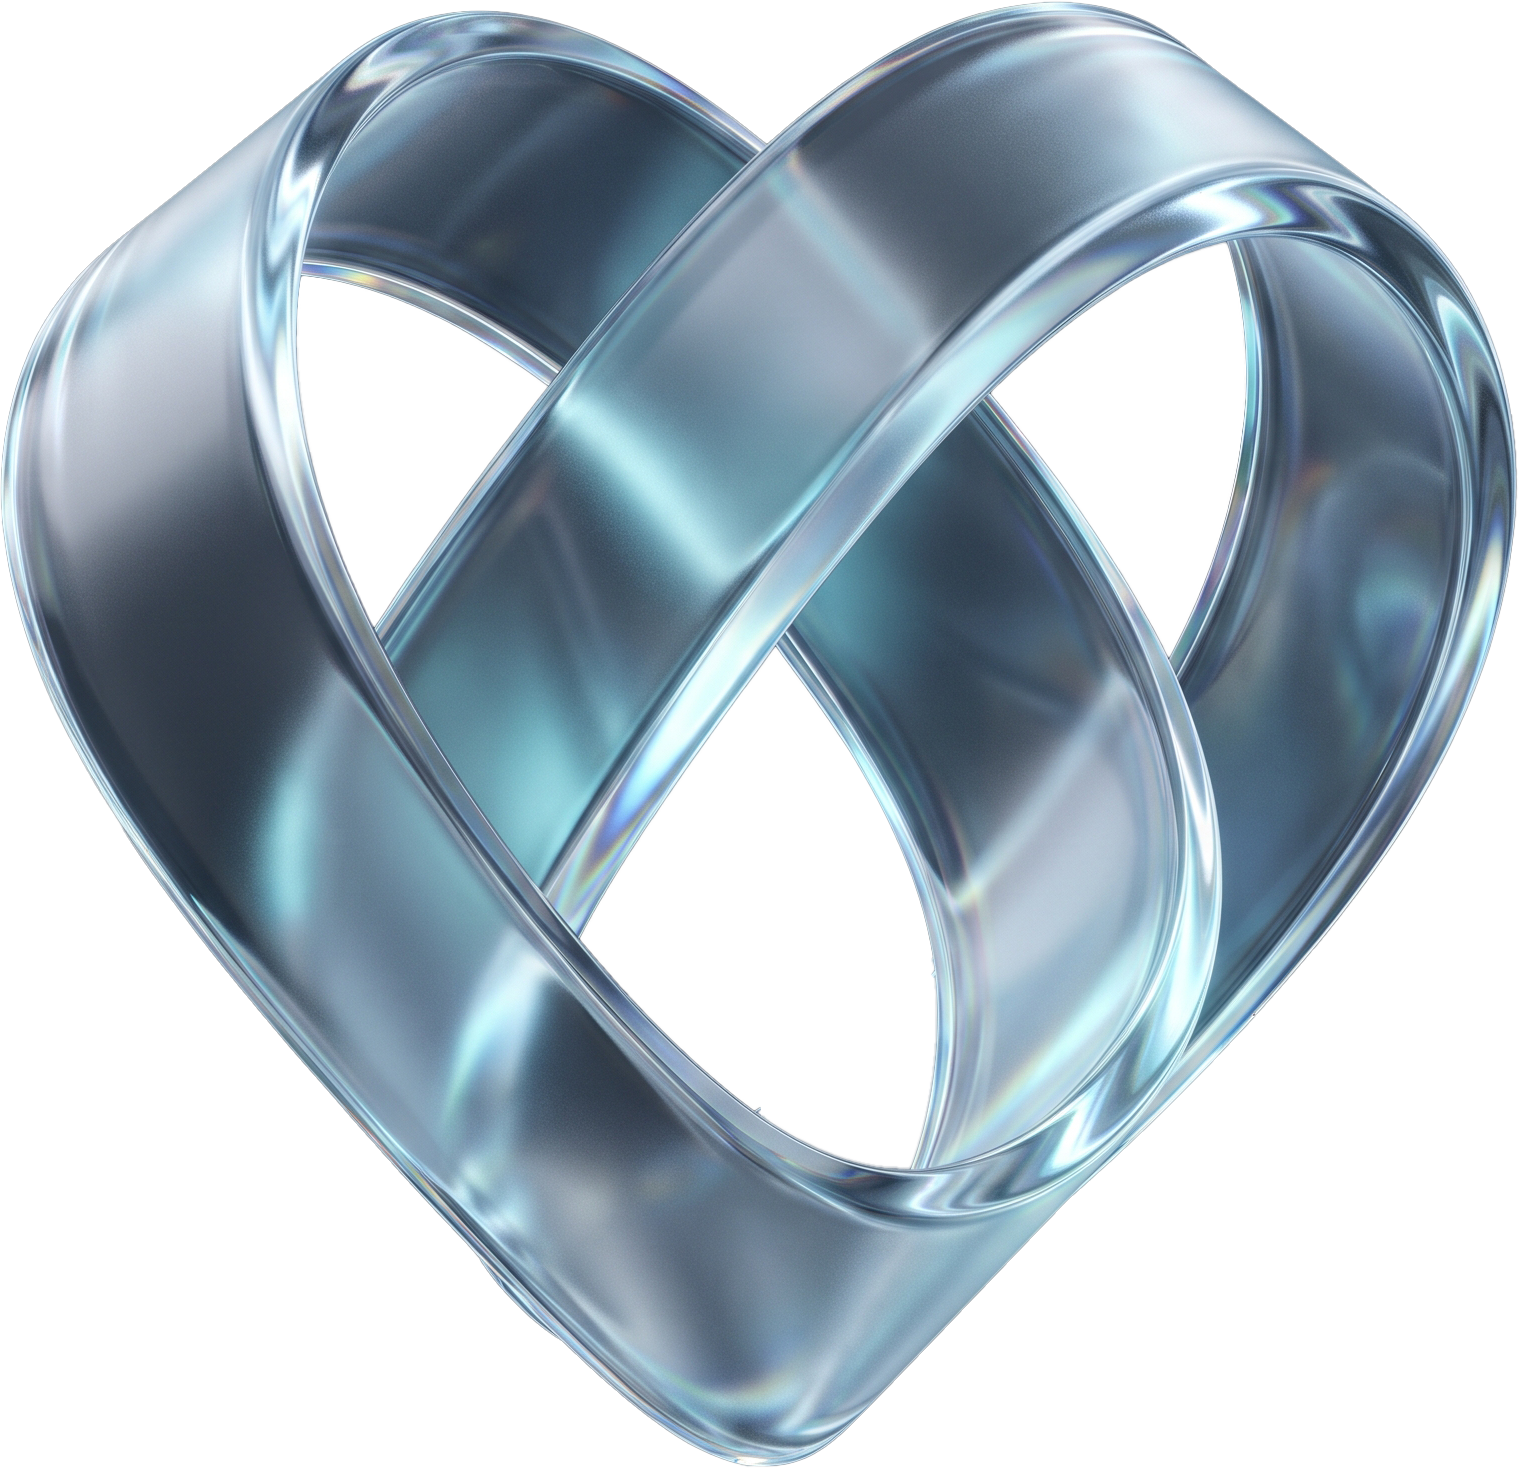
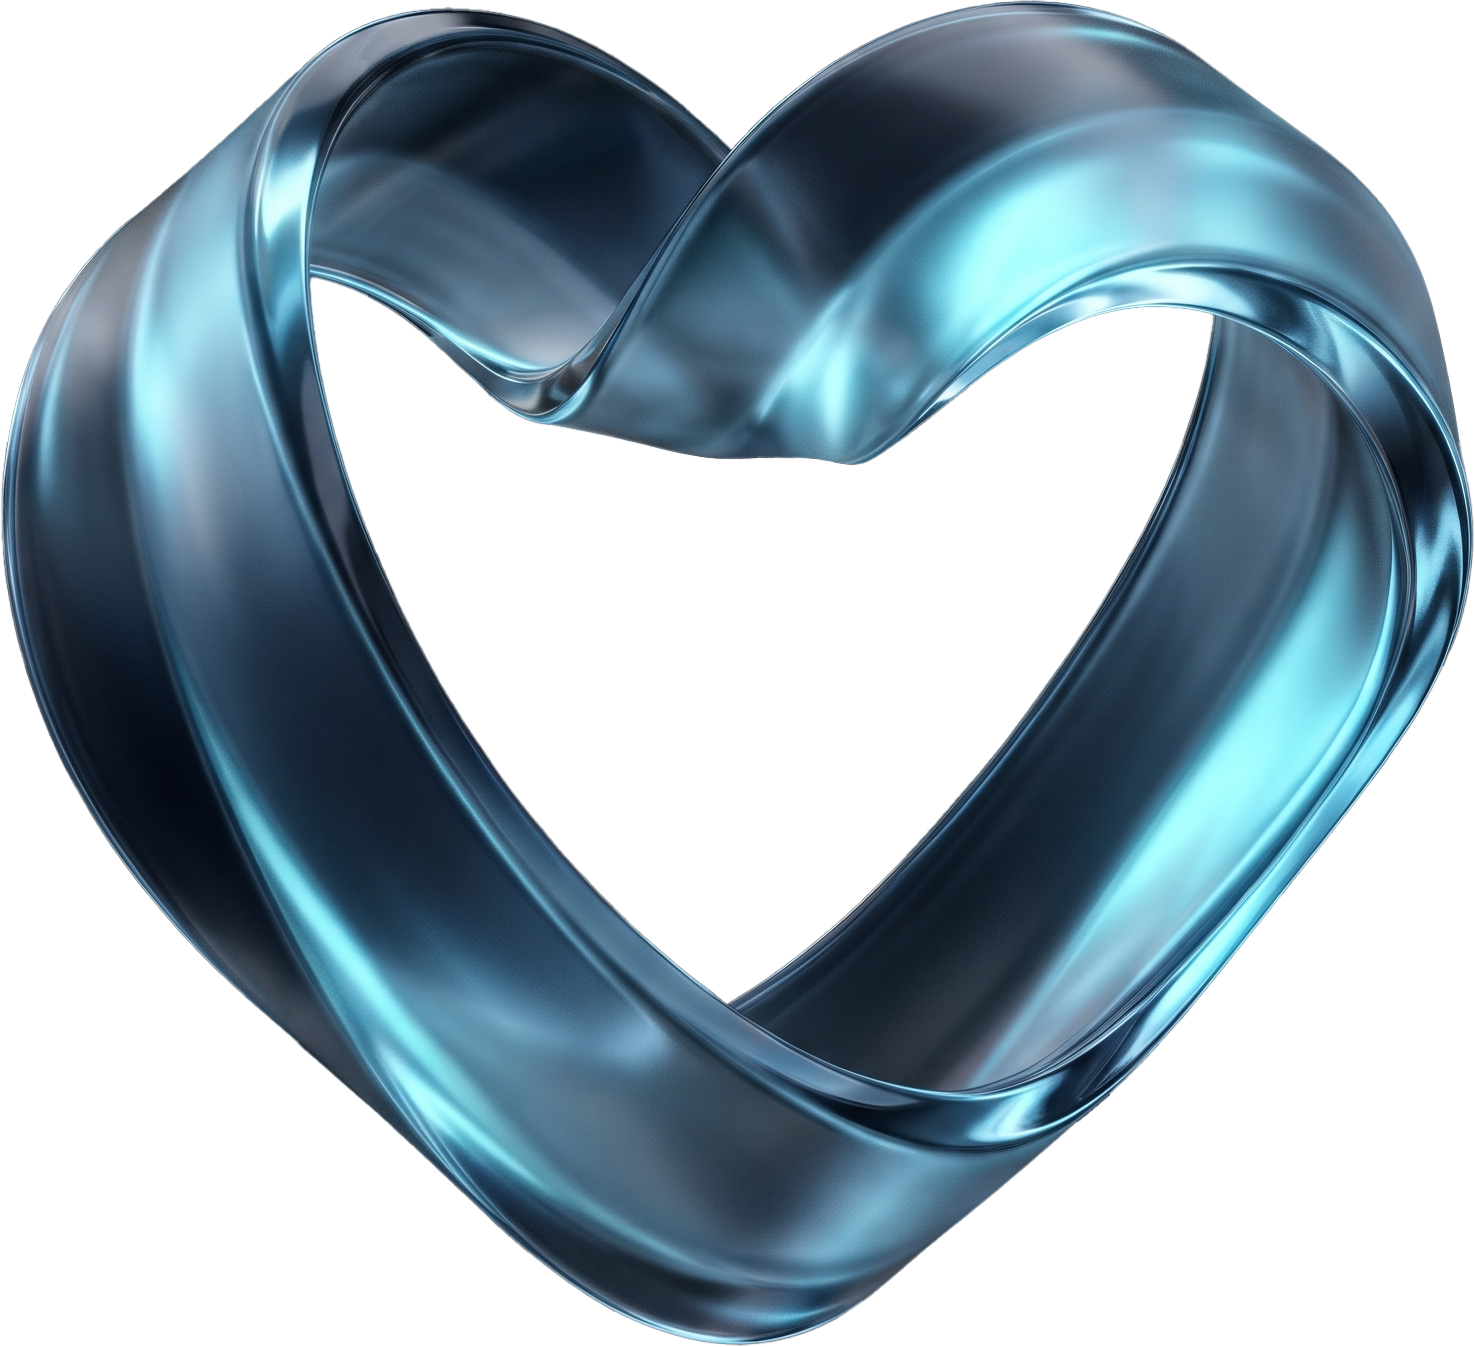
update: доработки по графике

diff --git a/components/sections/AboutShortSection.tsx b/components/sections/AboutShortSection.tsx
@@ -126,8 +126,8 @@ export default function AboutShortSection() {
             </div>
 
             {/* Карточка 2 (Светлая) */}
-            <div className="group relative flex flex-col overflow-hidden rounded-3xl border border-neutral-200 bg-neutral-50 p-6 sm:p-8 lg:w-[600px] lg:p-12 lg:h-[400px]">
-              <div className="pointer-events-none absolute bottom-0 right-0 z-0 hidden w-[200px] translate-x-[25%] translate-y-[50%] sm:block sm:w-[500px]">
+            <div className="group relative flex flex-col overflow-hidden rounded-3xl border border-neutral-200 bg-neutral-50 p-6 sm:p-8 pb-24 sm:pb-24 lg:w-[600px] lg:p-12 lg:h-[400px]">
+              <div className="pointer-events-none absolute bottom-0 right-0 z-0 w-[300px] md:w-[500px] translate-x-[25%] translate-y-[50%]">
                 <Image
                   src="/infinity.png"
                   alt=""
@@ -151,8 +151,8 @@ export default function AboutShortSection() {
             </div>
 
             {/* Карточка 3 (Светлая) */}
-            <div className="group relative flex flex-col overflow-hidden rounded-3xl border border-neutral-200 bg-neutral-50 p-6 sm:p-8 lg:w-[600px] lg:p-12 lg:h-[400px]">
-              <div className="pointer-events-none absolute bottom-0 right-0 z-0 hidden w-[200px] rotate-90 -scale-y-100 translate-x-[25%] translate-y-[90%] sm:block sm:w-[500px]">
+            <div className="group relative flex flex-col overflow-hidden rounded-3xl border border-neutral-200 bg-neutral-50 p-6 sm:p-8 pb-24 sm:pb-24 lg:w-[600px] lg:p-12 lg:h-[400px]">
+              <div className="pointer-events-none absolute bottom-0 right-0 z-0 w-[400px] md:w-[500px] rotate-90 -scale-y-100 translate-x-[15%] md:translate-x-[25%] translate-y-[110%] md:translate-y-[90%]">
                 <Image
                   src="/infinity.png"
                   alt=""

diff --git a/components/sections/FaqSection.tsx b/components/sections/FaqSection.tsx
@@ -48,7 +48,7 @@ export default function FaqSection() {
   return (
     <section className="relative overflow-hidden bg-neutral-50 py-16 sm:py-16 lg:py-16">
       {/* Фоновое изображение: крупный объект в левом нижнем углу */}
-            <div className="pointer-events-none absolute bottom-0 right-0 z-0 translate-x-[30%] translate-y-[35%] -scale-y-100 w-[60vw]">
+            <div className="pointer-events-none absolute bottom-0 right-0 z-0 translate-x-[70%] md:translate-x-[30%] translate-y-[35%] -scale-y-100 w-[800px] md:w-[60vw]">
               <Image
                 src="/heart_dark.png"
                 alt=""

diff --git a/components/sections/HelpRequestSection.tsx b/components/sections/HelpRequestSection.tsx
@@ -217,7 +217,7 @@ export default function HelpRequestSection() {
   return (
     <section className="relative overflow-hidden bg-gradient-to-l from-[#121C26] to-[#1a2a3c] py-16 sm:py-16 lg:py-16">
       {/* Фоновое изображение: крупный объект в левом нижнем углу */}
-      <div className="pointer-events-none absolute bottom-0 left-0 z-0 -translate-x-[20%] translate-y-[85%] rotate-90 w-[60vw]">
+      <div className="pointer-events-none absolute hidden lg:block bottom-0 left-0 z-0 -translate-x-[10%] translate-y-[85%] w-[60vw]">
         <Image
           src="/heart_black.png"
           alt=""

diff --git a/components/sections/ProgramsCardsSection.tsx b/components/sections/ProgramsCardsSection.tsx
@@ -231,9 +231,9 @@ function SvoCard({ program }: { program: Program }) {
       }}
     >
       {/* Фоновое изображение: правый нижний угол, крупно, за контентом */}
-      <div className="pointer-events-none absolute bottom-0 right-0 z-0 translate-x-[30%] translate-y-[75%] w-[60vw] -scale-y-100">
+      <div className="pointer-events-none absolute hidden md:block bottom-0 right-0 z-0 translate-x-[20%] translate-y-[84%] w-[50vw] -scale-x-100">
         <Image
-          src="/infinity_dark.png"
+          src="/heart_dark.png"
           alt=""
           width={800}
           height={800}

diff --git a/components/sections/FoundersSection.tsx b/components/sections/FoundersSection.tsx
@@ -76,7 +76,7 @@ export default function FoundersSection() {
   return (
     <section className="relative overflow-hidden bg-gradient-to-r from-[#121C26] to-[#1a2a3c] py-16 sm:py-16 lg:py-16">
       {/* Фоновое изображение: правый нижний угол */}
-      <div className="pointer-events-none absolute bottom-0 right-0 z-0 w-[70vw] max-w-[1200px] translate-x-[60%] translate-y-[40%]">
+      <div className="pointer-events-none absolute hidden lg:block bottom-0 right-0 z-0 w-[1100px] translate-x-[60%] translate-y-[40%]">
         <Image
           src="/heart_black.png"
           alt=""

diff --git a/components/sections/HelpBlockSection.tsx b/components/sections/HelpBlockSection.tsx
@@ -156,7 +156,7 @@ export default function HelpBlockSection() {
         }}
       >
         {/* Картинка сердца в левом нижнем углу */}
-        <div className="pointer-events-none absolute bottom-0 left-0 z-0 -translate-x-[37%] translate-y-[60%] w-[70vw]">
+        <div className="pointer-events-none absolute hidden lg:block bottom-0 left-0 z-0 -translate-x-[50%] translate-y-[60%] w-[70vw]">
           <Image
             src="/heart_dark.png"
             alt=""
